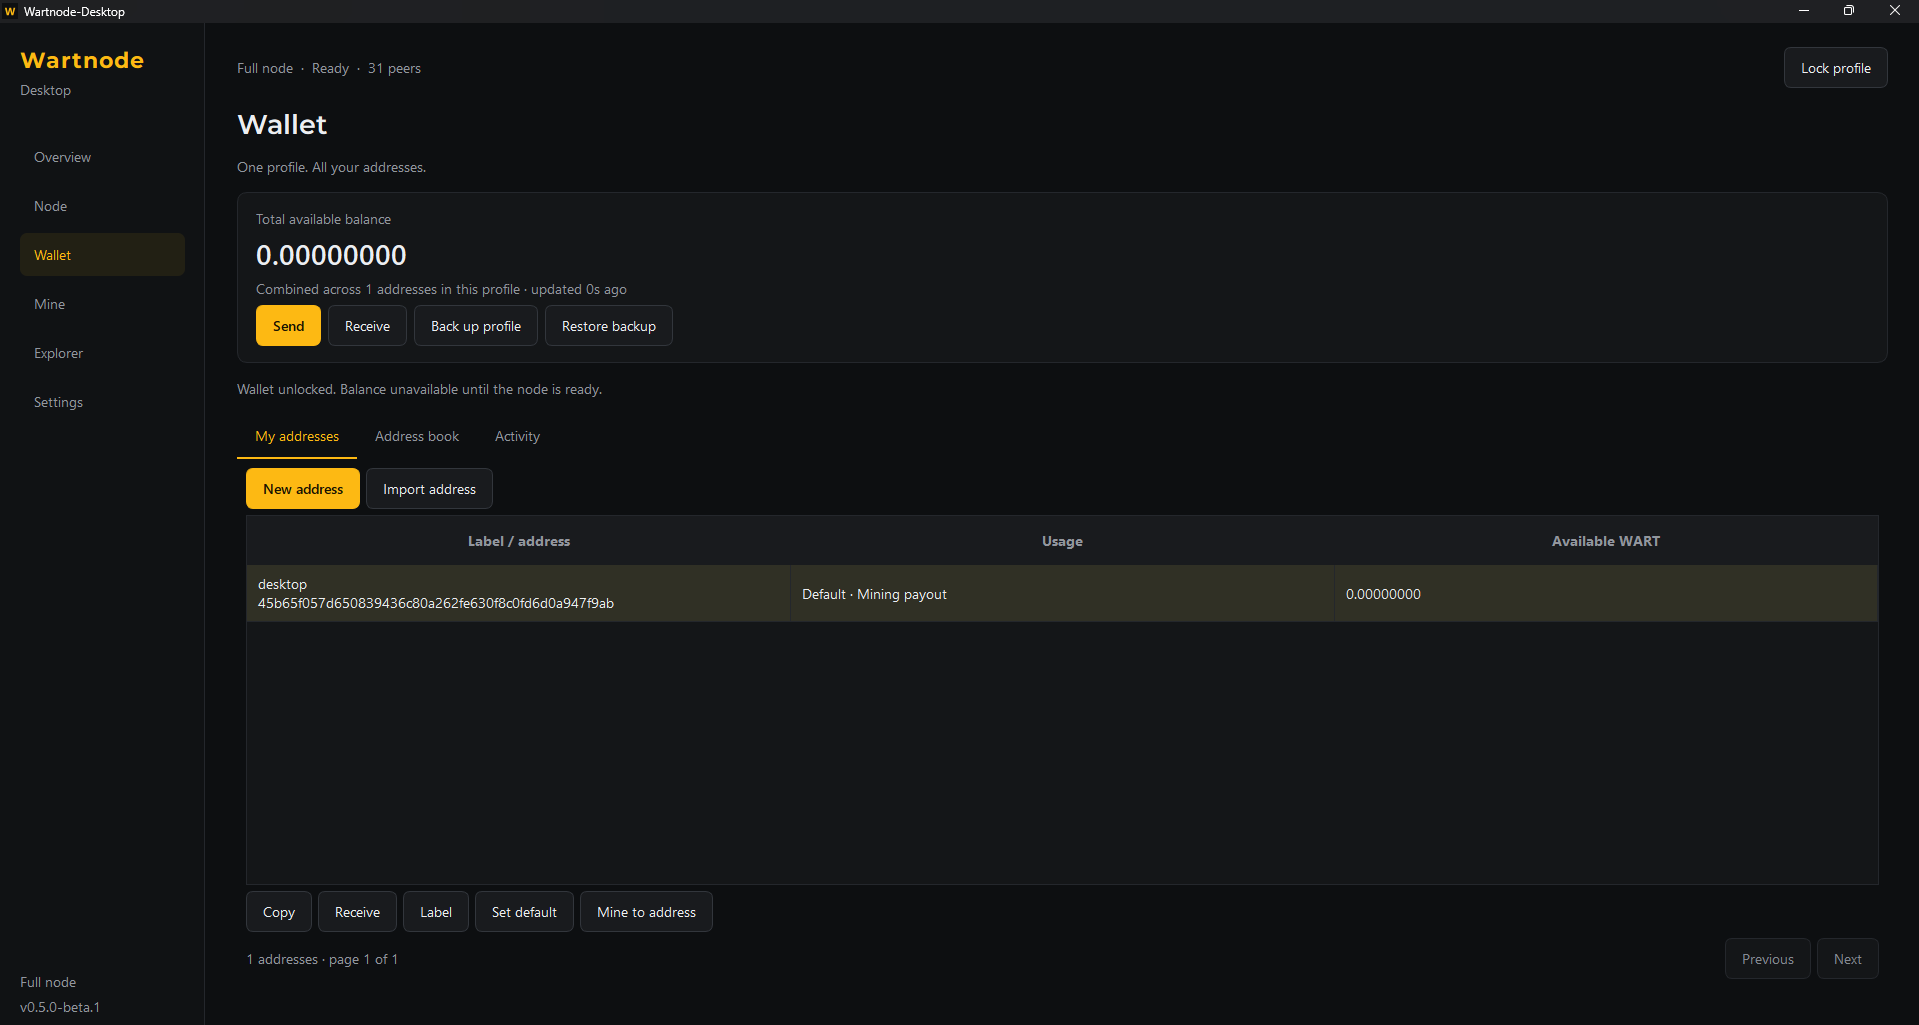
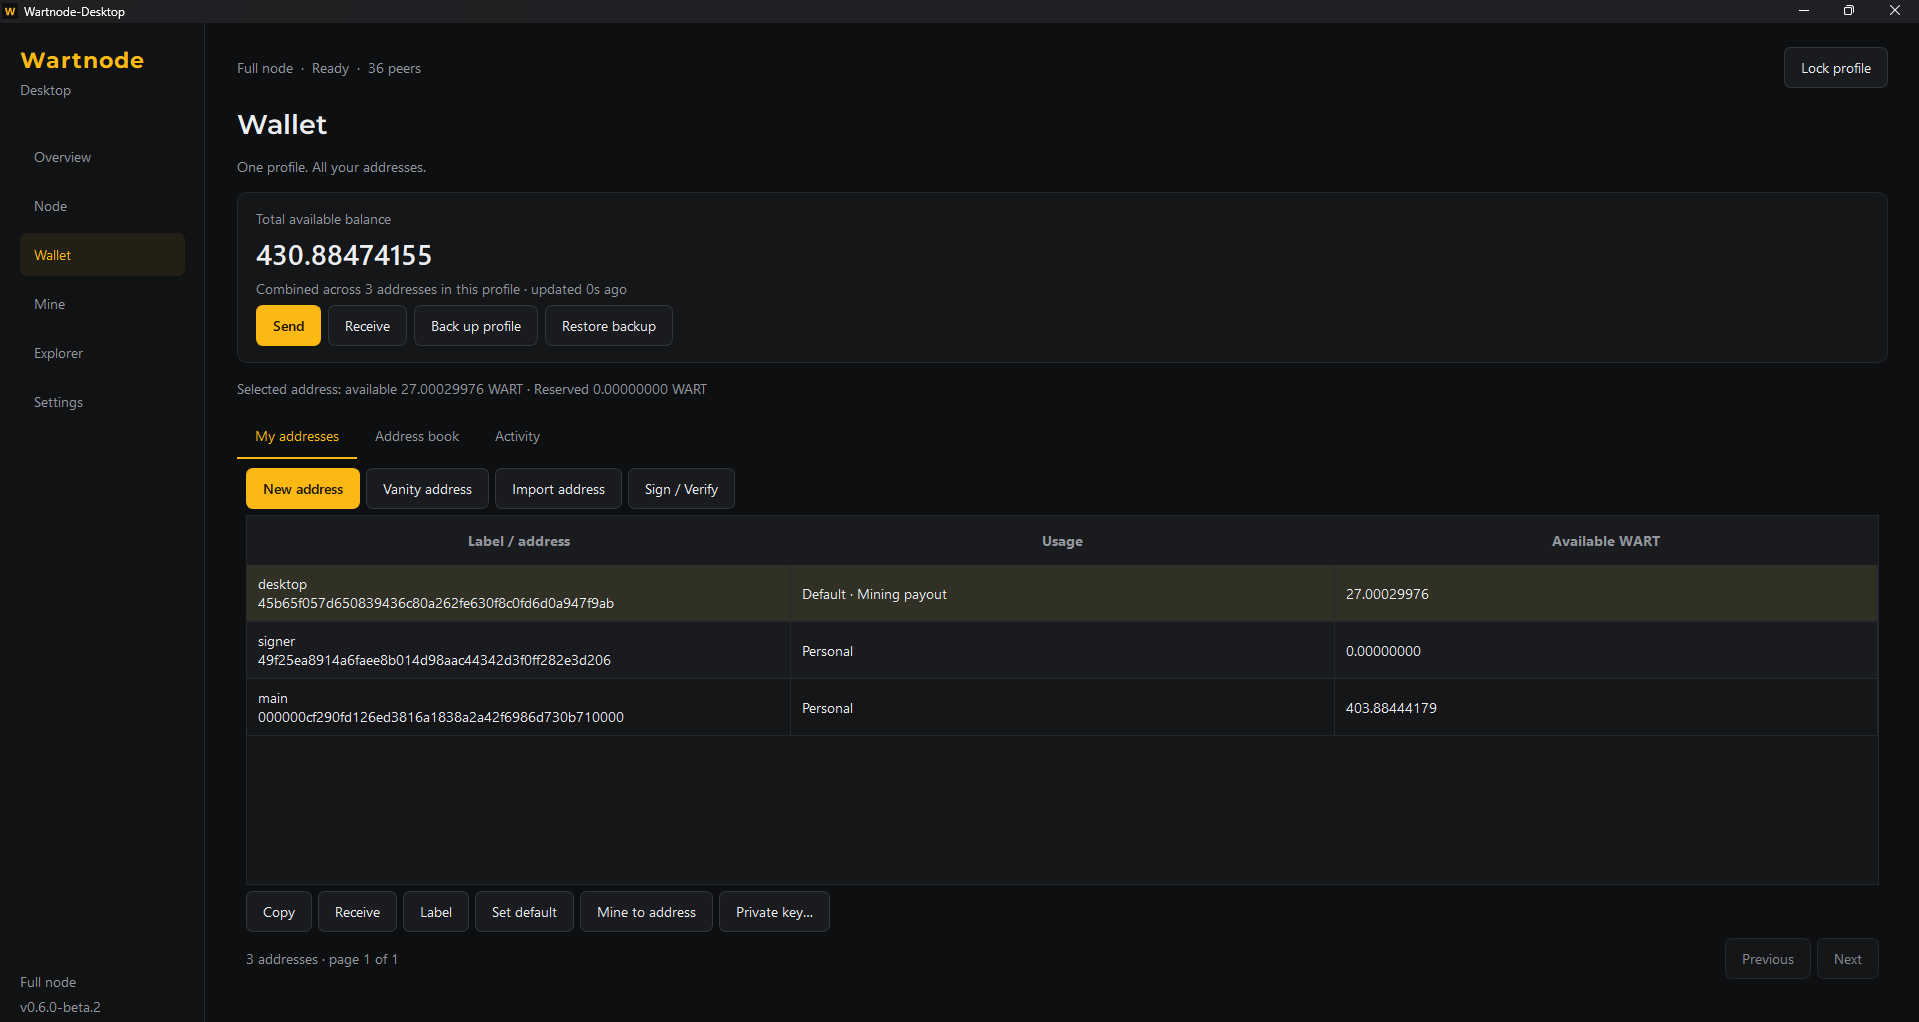
docs: refresh wallet screenshot and add vanity dialog [skip ci]

diff --git a/docs/SCREENSHOTS.md b/docs/SCREENSHOTS.md
@@ -1,12 +1,13 @@
 # Wartnode-Desktop screenshots
 
-A tour of the six main pages and the Sign / Verify workspace, captured on
-November 5, 2026. The signing screenshots show **v0.5.0-beta.3**, Mine shows
-**v0.5.0-beta.2**, and the remaining main-page screenshots show **v0.5.0-beta.1**.
+A tour of the six main pages and Wallet dialogs. Wallet shows
+**v0.6.0-beta.2** and the vanity dialog shows **v0.6.0-beta.1**, captured on
+November 6, 2026. The November 5 captures show **v0.5.0-beta.3** for Sign / Verify,
+**v0.5.0-beta.2** for Mine, and **v0.5.0-beta.1** for the other main pages.
 Balances, block heights, network statistics and mining readings reflect the
 capture sessions.
 
-[Overview](#overview) · [Node](#node) · [Wallet](#wallet) · [Sign and Verify](#sign-and-verify) · [Mine](#mine) · [Explorer](#explorer) · [Settings](#settings)
+[Overview](#overview) · [Node](#node) · [Wallet](#wallet) · [Vanity addresses](#vanity-addresses) · [Sign and Verify](#sign-and-verify) · [Mine](#mine) · [Explorer](#explorer) · [Settings](#settings)
 
 ## Overview
 
@@ -29,11 +30,22 @@ node log available in a separate window.
 ## Wallet
 
 Manage labeled addresses under one profile password and view their combined
-available balance. Create or import addresses, select a default or mining payout
-address, and access Send, Receive, encrypted profile backups, the address book
-and activity history.
+available balance. Create normal or vanity addresses, import existing addresses,
+select a default or mining payout address, and access Send, Receive, encrypted
+profile backups, the address book and activity history. The selected address's
+**Private key…** action reveals or copies its key after password confirmation.
 
-![Wallet page showing the combined balance, labeled address list, address book and activity tabs, backup controls and address actions](screenshots/wallet.png)
+![Wallet in beta.2 showing the combined balance, labeled address list, backup controls, Vanity address button and Private key action](screenshots/wallet.png)
+
+## Vanity addresses
+
+Open **Wallet → My addresses → Vanity address** to search for a prefix, suffix
+or both. Preview the pattern, review its difficulty and estimate search time on
+your computer. Mining must stay stopped for searches over eight combined
+prefix/suffix characters. See the [vanity guide](MVP_GUIDE.md#vanity-addresses)
+for saved searches and recovery.
+
+![Vanity address dialog showing a ten-character prefix, address preview, demanding-pattern estimate, local timing control and mining-stop requirement](screenshots/vanity-address.png)
 
 ## Sign and Verify
 
